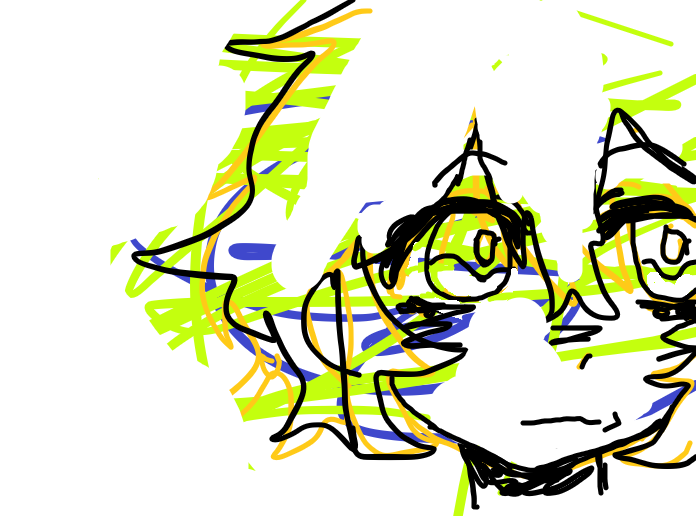
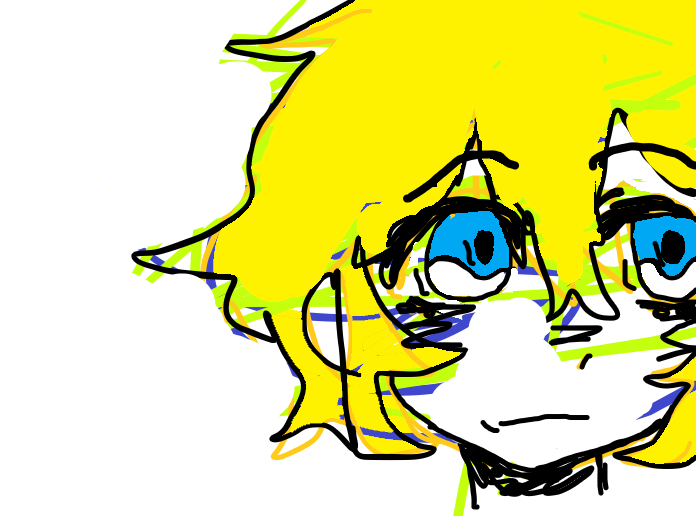
snow grave

diff --git a/index.html b/index.html
@@ -9,24 +9,19 @@
     <!-- importa o CSS do Font Awesome -->
     <link rel="stylesheet" href="https://cdnjs.cloudflare.com/ajax/libs/font-awesome/7.3.1/css/all.min.css"
         integrity="sha512-QeR2VH+lsBE5LSAe1Q5EnTBbe7XTBubt8dG93Y7gidSgdMCr8nVqKcfKAMyN96SV8KDbZVTDXChatu5G2KQGzg=="
-        crossorigin="anonymous" referrerpolicy="no-referrer" />
-        <style>
-    body {
-        background-color: rgb(255, 251, 13);  ;
-    }
-        </style>
+crossorigin="anonymous" referrerpolicy="no-referrer="no-referrer" />"
      <title>FistSteps - Mi boomba</title>
 </head>
 
-
+<body>
 
 <!-- Template usando metodologiam wrap -->
 
      <div id="wrap"></div>
 
-         <header style="background-color: rgb(0, 255, 0);"> 
+         <header style="background-color: rgb(134, 57, 57);"> 
 
-    <a href="index.html">
+    <a href="https://cdnjs.cloudflare.com/ajax/libs/font-awesome/7.3.1/css/all.min.css"">
             <img src="img/zombi.png" alt="Logo">
         </a>
         <h1>FistSteps</h1>
@@ -37,7 +32,7 @@
 
 </header>
 
-         <nav style="background-color: rgb(107, 0, 230); padding: 10px;">menu principal</nav>
+         <nav style="background-color: rgb(173, 31, 31); padding: 10px;">menu principal</nav>
              <a href="index.html">inicio</a>
              <a href="content.html">conteúdo</a>
              <a href="contatcts.html">contato</a>
@@ -45,9 +40,9 @@
 
         <nav>
 
-        <main style="background-color: rgb(0, 219, 11); padding: 10px;">conteúdo principal</main>
+        <main style="background-color: rgb(61, 156, 66); padding: 10px;">conteúdo principal</main>
 
-           <section style="background-color: rgb(236, 0, 0); padding: 10px;">conteúdo principal</section>
+           <section style="background-color: #be5454; padding: 10px;">conteúdo principal</section>
 
     <h2>Título dessa página</h2>
             </p>Lorem ipsum dolor sit amet, consectetur adipisicing elit. Eaque pariatur nesciunt ullam ex. Commodi
@@ -67,11 +62,11 @@
     <img src="img/gril.png" alt="logo">
            </section>
 
-           <aside style="background-color: rgb(75, 216, 169); padding: 10px;">conteúdo auxiliar</aside>
+           <aside style="background-color: aqua; padding: 10px;">conteúdo auxiliar</aside>
 
         </main>
 
-         <footer style="background-color: rgb(56, 52, 52); padding: 10px;">Rodapé</footer>
+         <footer style="background-color:  khaki; padding: 10px;">Rodapé</footer>
  
          <!--pagina inicial-->
          <a href="index.html"><i class="fa-solid fa-house" fa-fw></i></a>

diff --git a/style.css b/style.css
@@ -1,0 +1,28 @@
+/*
+css\style.css
+Folhas de estilo do template do site.
+*/
+
+/* importa fonte Robot do google fonts */
+@import url('https://fonts.googleapis.com/css2?family=Roboto:ital,wght@0,100..900;1,100..900&display=swap');
+
+/* Reset Geral*/
+
+ * {
+    box-sizing: border-box;
+    outline: none;
+}
+
+/* Fonte padrao e tamanho */
+
+html, body {
+     font-family: 'Lucida Sans','Lucida Sans Regular',  'Lucida Grande', 'Lucida Sans Unicode',  Geneva, Verdana, sans-serif;
+    /*
+    A linha acima ativa a unidade de medida "rem" onde:
+     1rem=16px
+     .5rem=8px
+     .25rem=4px
+     2rem=32px
+     3rem= 48px
+    */
+ }
